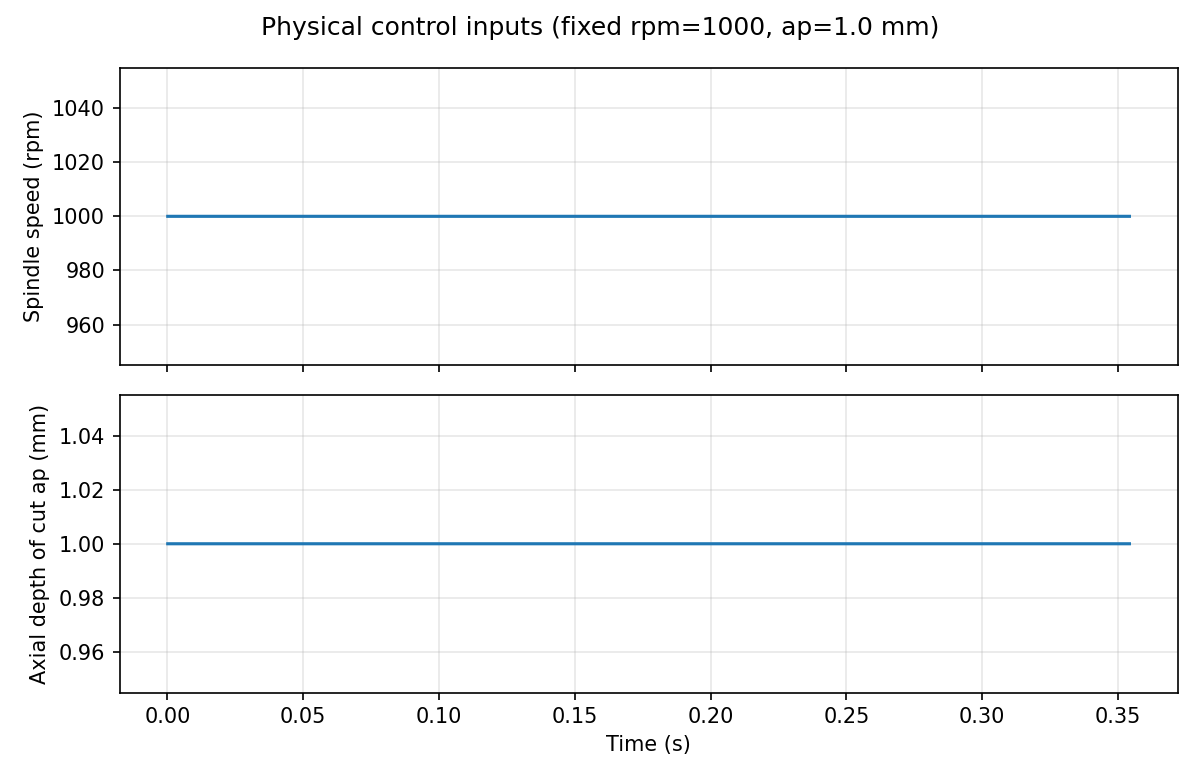
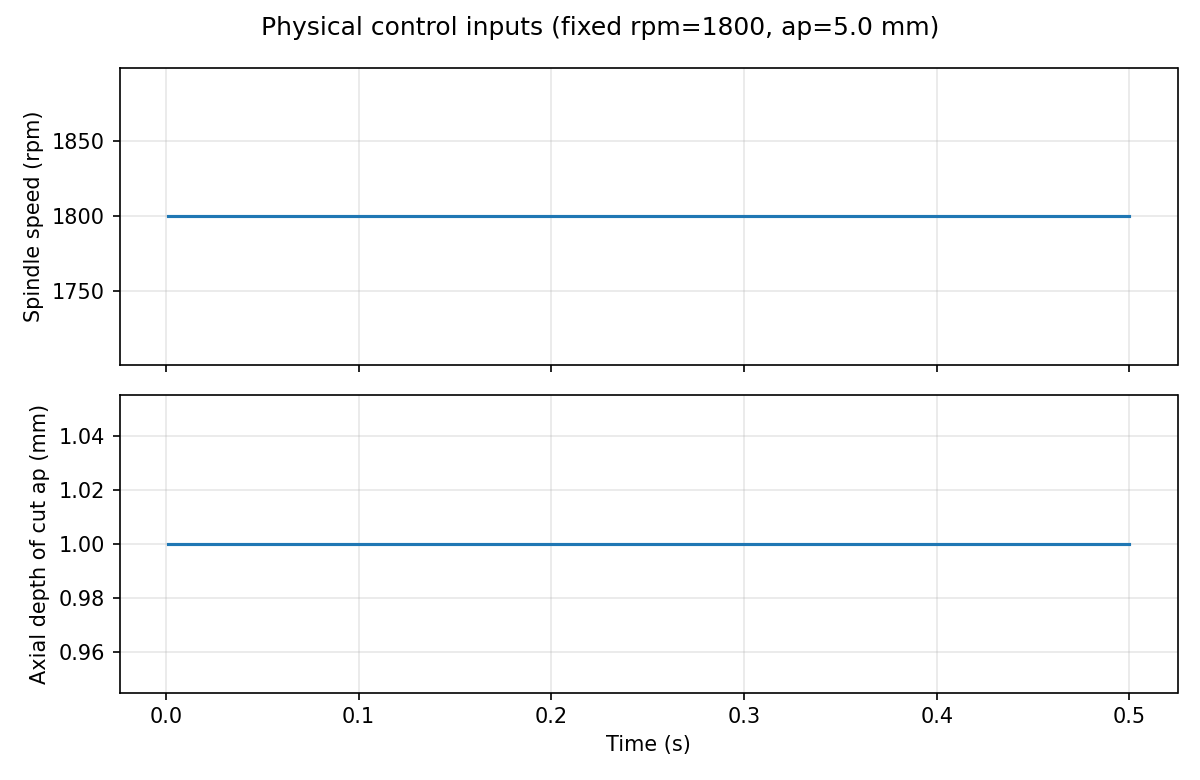
Update ODEControlEnv and PlatePlant parameters for improved dynamics and kinematics
- Reduced time step (dt) in ODEControlEnv from 0.02 to 0.002 for enhanced simulation accuracy.
- Set default history module in rk4.py to "f_nonlinear2_face_milling" for better integration with face-milling dynamics.
- Updated face-milling model in f_nonlinear2_face_milling.py to include variable spindle speed handling and improved regenerative delay calculations.
- Adjusted PlatePlant parameters, including minimum RPM and axial depth of cut, to optimize milling performance and stability.
- Modified random policy check script to reflect new default step count and time step settings.

diff --git a/custom_rl/plants/f_nonlinear2_face_milling.py b/custom_rl/plants/f_nonlinear2_face_milling.py
@@ -27,7 +27,12 @@ Implemented face-milling model
 For tooth i:
 
     theta_i = theta_base(t) + theta0 + (i-1)*2*pi/N
-    tau     = 2*pi/(N*omega)
+    For constant spindle speed:
+        tau = 2*pi/(N*omega)
+
+    For variable spindle speed:
+        find t_d from theta_base(t) - theta_base(t_d) = 2*pi/N
+        tau_eff = t - t_d
 
     h_i = ft*sin(theta_i)
         + Delta_xr*sin(theta_i)*cos(gamma_L)
@@ -36,7 +41,7 @@ For tooth i:
 
 where
 
-    Delta_r = r_rel(t) - r_rel(t - tau)
+    Delta_r = r_rel(t) - r_rel(t_d)
     r_rel   = r_cutter_dynamic - r_workpiece_dynamic
 
 For each engaged tooth:
@@ -68,6 +73,8 @@ The old code precomputed a scalar F_normal = sqrt(Fx^2 + Fy^2) from a
 peripheral-milling polynomial model. That is removed here. Face milling is
 computed tooth-by-tooth, gives [Fx, Fy, Fz], and uses the regenerative delay
 inside chip thickness, not as an artificial delay in the structural terms.
+When spindle speed changes, the delayed state is selected by one-tooth phase
+separation rather than by the instantaneous period alone.
 """
 
 from __future__ import annotations
@@ -219,7 +226,12 @@ def _get_state_at_time(t_query: float) -> Optional[np.ndarray]:
             return _state_history[0][1].copy()
         return None
     if idx == len(times):
-        return _state_history[-1][1].copy()
+        # Do not extrapolate a future delayed state from the last accepted state.
+        # If this happens, the RK substep is too large for the current tooth delay
+        # or a proper within-step DDE interpolant is required.
+        if t_query <= times[-1] + 1e-14:
+            return _state_history[-1][1].copy()
+        return None
 
     t1, x1 = _state_history[idx - 1]
     t2, x2 = _state_history[idx]
@@ -348,6 +360,92 @@ def spindle_phase(t: float, omega_rad_s: float) -> float:
     """Return accumulated spindle phase [rad] at time t."""
     _, phase = feed_phase_at_time(t, omega_rad_s)
     return float(phase)
+
+
+def tooth_pitch_phase() -> float:
+    """Return one-tooth pitch angle [rad]."""
+    return 2.0 * np.pi / float(N)
+
+
+def _get_time_at_phase(phase_query: float) -> Optional[float]:
+    """Return the time at which the accepted spindle phase reached phase_query.
+
+    The kinematic history stores unwrapped spindle phase, so the inverse mapping
+    phase -> time is well defined while the spindle speed is positive.
+    """
+    if len(_kinematic_history) == 0:
+        return None
+
+    phase_query = float(phase_query)
+    phases = [entry[2] for entry in _kinematic_history]
+    idx = bisect.bisect_left(phases, phase_query)
+
+    if idx == 0:
+        if abs(phases[0] - phase_query) < _KINEMATIC_TOL:
+            return float(_kinematic_history[0][0])
+        return None
+
+    if idx == len(phases):
+        if phase_query <= phases[-1] + _KINEMATIC_TOL:
+            return float(_kinematic_history[-1][0])
+        return None
+
+    t1, _, phase1 = _kinematic_history[idx - 1]
+    t2, _, phase2 = _kinematic_history[idx]
+    if abs(phase2 - phase1) < _KINEMATIC_TOL:
+        return float(t1)
+
+    a = (phase_query - phase1) / (phase2 - phase1)
+    return float((1.0 - a) * t1 + a * t2)
+
+
+def regenerative_delay_time(t: float, omega_rad_s: float) -> Tuple[Optional[float], float]:
+    """Return (t_delay, tau_eff) for one-tooth regenerative delay.
+
+    For constant spindle speed, this reduces to t_delay = t - 2*pi/(N*omega).
+    For variable spindle speed, the delayed time is defined by one tooth pitch
+    of unwrapped spindle phase:
+
+        phase(t) - phase(t_delay) = 2*pi/N
+
+    If less than one tooth of accepted history exists, t_delay is None and the
+    caller should use zero regenerative displacement.
+    """
+    t = float(t)
+    omega_rad_s = max(float(omega_rad_s), OMEGA_EPS)
+    tau_const = tooth_period(omega_rad_s)
+
+    if not USE_ACCEPTED_PATH_KINEMATICS:
+        return max(t - tau_const, 0.0), tau_const
+
+    phase_now = spindle_phase(t, omega_rad_s)
+    target_phase = phase_now - tooth_pitch_phase()
+
+    if target_phase < -_KINEMATIC_TOL:
+        return None, tau_const
+    target_phase = max(target_phase, 0.0)
+
+    # If the whole delay lies inside the current held-action segment, compute it
+    # directly. The state history may not support this case unless the RK substep
+    # is smaller than the tooth delay; f_nonlinear2 checks that before use.
+    if t >= _kinematic_t0 - _KINEMATIC_TOL and target_phase >= _kinematic_phase0_rad - _KINEMATIC_TOL:
+        t_delay = _kinematic_t0 + max(target_phase - _kinematic_phase0_rad, 0.0) / omega_rad_s
+        t_delay = min(max(t_delay, 0.0), t)
+        return float(t_delay), float(t - t_delay)
+
+    t_delay = _get_time_at_phase(target_phase)
+    if t_delay is None:
+        return None, tau_const
+
+    t_delay = min(max(float(t_delay), 0.0), t)
+    return t_delay, float(t - t_delay)
+
+
+def _latest_state_history_time() -> Optional[float]:
+    """Return the latest accepted modal-history time, if available."""
+    if len(_state_history) == 0:
+        return None
+    return float(_state_history[-1][0])
 
 # ============================================================
 # Debug information from the last force calculation
@@ -660,8 +758,18 @@ def process_damping_matrix(theta_values: np.ndarray, engagement: np.ndarray,
     return B
 
 
-def compute_face_milling_force(t: float, x_modal: np.ndarray, x_delay_modal: np.ndarray,
-                               omega_rad_s: float, ap_mm: float, ae_mm: float):
+def compute_face_milling_force(
+    t: float,
+    x_modal: np.ndarray,
+    x_delay_modal: np.ndarray,
+    omega_rad_s: float,
+    ap_mm: float,
+    ae_mm: float,
+    *,
+    t_delay_s: Optional[float] = None,
+    tau_s: Optional[float] = None,
+    delay_available: bool = True,
+):
     """
     Compute global face-milling force and diagnostic quantities.
 
@@ -676,13 +784,16 @@ def compute_face_milling_force(t: float, x_modal: np.ndarray, x_delay_modal: np.
     ae_mm = max(float(ae_mm), 0.0)
     ft_mm = float(cf)
 
-    tau = tooth_period(omega_rad_s)
+    tau = tooth_period(omega_rad_s) if tau_s is None else max(float(tau_s), 0.0)
     theta_s, theta_e = entry_exit_angles(ae_mm)
 
     xc, yc = cutter_point(t, omega_rad_s)
-    if USE_DELAYED_CUTTER_POSITION_FOR_REGEN:
-        xc_delay, yc_delay = cutter_point(max(t - tau, 0.0), omega_rad_s)
+    if delay_available and USE_DELAYED_CUTTER_POSITION_FOR_REGEN:
+        t_delay = max(t - tau, 0.0) if t_delay_s is None else max(float(t_delay_s), 0.0)
+        xc_delay, yc_delay = cutter_point(t_delay, omega_rad_s)
     else:
+        # Before one-tooth history exists, use zero regenerative displacement:
+        # compare current state with itself at the same cutter location.
         xc_delay, yc_delay = xc, yc
 
     rel_now = relative_displacement_mm(x_modal, xc, yc)
@@ -810,7 +921,8 @@ def f_nonlinear2(t, x, u):
     Modal plate dynamics forced by the face-milling cutting force.
 
     The structural equation is intentionally not delayed. Regeneration appears
-    only inside the chip-thickness term through x(t)-x(t-tau).
+    only inside the chip-thickness term through x(t)-x(t_delay), where t_delay
+    is selected by one-tooth phase separation when accepted kinematics are used.
     """
     _require_initialized()
 
@@ -821,9 +933,22 @@ def f_nonlinear2(t, x, u):
         raise ValueError(f"Expected state shape ({2*K},), got {x.shape}.")
     x = np.nan_to_num(x, nan=0.0, posinf=1e6, neginf=-1e6)
 
-    tau = tooth_period(omega_rad_s)
-    x_delay = _get_state_at_time(float(t) - tau)
-    if x_delay is None:
+    t_delay, tau = regenerative_delay_time(float(t), omega_rad_s)
+    delay_available = t_delay is not None
+    if delay_available:
+        latest_t = _latest_state_history_time()
+        if latest_t is not None and t_delay > latest_t + 1e-12:
+            raise RuntimeError(
+                "Regenerative delay time falls inside the current RK substep. "
+                "Reduce env dt or increase n_substeps so each RK substep is "
+                "smaller than the minimum tooth-passing delay, or use a DDE "
+                "integrator with within-step interpolation."
+            )
+        x_delay = _get_state_at_time(t_delay)
+        if x_delay is None:
+            delay_available = False
+            x_delay = x.copy()
+    else:
         # Before one-tooth history exists, use current state. This gives zero
         # regenerative displacement and keeps the static chip-load force active.
         x_delay = x.copy()
@@ -836,6 +961,9 @@ def f_nonlinear2(t, x, u):
         omega_rad_s=omega_rad_s,
         ap_mm=ap_mm,
         ae_mm=ae_mm,
+        t_delay_s=t_delay,
+        tau_s=tau,
+        delay_available=delay_available,
     )
     last_force_info = info
 

diff --git a/custom_rl/plants/plate.py b/custom_rl/plants/plate.py
@@ -48,7 +48,7 @@ from custom_rl.plants.compute_nonlinear_stiffness_updated import (
 # ---------------------------------------------------------------------------
 DEFAULT_SENSOR_POINTS: tuple[tuple[float, float], ...] = (
     (0.83, 0.20),
-    (0.17, 0.20),
+    (0.83, 0.83),
 )
 
 # The face-milling force module currently supports a straight x-pass with
@@ -56,7 +56,7 @@ DEFAULT_SENSOR_POINTS: tuple[tuple[float, float], ...] = (
 DEFAULT_Y_CUTTER = 0.20
 
 # Spindle speed operating range [rpm]; internal physics uses rad/s.
-RPM_MIN = 50.0
+RPM_MIN = 400.0
 RPM_MAX = 4000.0
 
 # Practical reference speed for episode cap estimation.  This does not change
@@ -185,13 +185,13 @@ class PlatePlant(ODEPlant):
         omega_min: float = OMEGA_MIN_RAD_S,
         omega_max: float = OMEGA_MAX_RAD_S,
         ap_min: float = 0.0,
-        ap_max: float = 20
+        ap_max: float = 1,
         ae_min: float = 1.0,
         ae_max: float = 50.0,
-        ae_default: float = 25.0,
+        ae_default: float = 28.0,
         control_ae: bool = False,
-        D_mm: float = 50.0,
-        feed_per_tooth_mm: float = 0.05,
+        D_mm: float = 63.0,
+        feed_per_tooth_mm: float = 0.20,
         gamma_L_deg: float = 45.0,
         gamma_r_deg: float = 5.0,
         gamma_a_deg: float = 5.0,
@@ -215,25 +215,26 @@ class PlatePlant(ODEPlant):
         use_process_damping: bool = False,
         Ksp: float | None = None,
         mu: float = 0.3,
-        VB: float = 0.08,
-        lambda_L_deg: float | None = 45.0,
+        VB: float = 0.0,
+        lambda_L_deg: float | None = None,
         force_projection_mode: str = "z",
         sensor_points: Sequence[tuple[float, float]] = DEFAULT_SENSOR_POINTS,
-        w_limit: float = 0.01,
-        w_obs_scale: float = 0.01,
+        w_limit: float = 1.0e-2,
+        w_obs_scale: float = 1.0e-2,
         wdot_limit: float = 10.0,
         wdot_obs_scale: float = 1.0,
-        eta_limit: float = 0.01,
+        eta_limit: float = 1.0e-3,
         y_cutter: float = DEFAULT_Y_CUTTER,
         x0_cutter: float = 0.0,
-        x_pass_end_tol: float = 0.01,
+        x_pass_end_tol: float | None = None,
         dynamics_uncertainty_std: float = 0.0,
         y0_min: float = 0.05,
-        y0_max: float = 0.45,
+        y0_max: float = 0.95,
         randomize_y0: bool = True,
         initial_eta_std: float = 0.0,
         initial_etad_std: float = 0.0,
         stiffness_grid_points: int = 100,
+        modal_damping_ratio: float = 0.02,
     ):
         # ------------------------------------------------------------------
         # Basic structural parameters
@@ -332,7 +333,12 @@ class PlatePlant(ODEPlant):
 
         self.y_cutter = float(y_cutter)
         self.x0_cutter = float(x0_cutter)
-        self.x_pass_end_tol = float(x_pass_end_tol)
+        # The milling pass ends after 90% travel: x = 0.1*L1.  Older code
+        # used the name x_pass_end_tol; keep it as a backward-compatible
+        # absolute end-position override, but default to the theory value.
+        self.x_pass_end_m = 0.1 * self.L1 if x_pass_end_tol is None else float(x_pass_end_tol)
+        self.x_pass_end_m = float(np.clip(self.x_pass_end_m, 0.0, self.L1))
+        self.x_pass_end_tol = self.x_pass_end_m
         self._last_omega = float(self.omega_min)
         self._last_ap = float(self.ap_min)
         self._last_ac = self._last_ap  # compatibility alias for old diagnostics
@@ -348,11 +354,21 @@ class PlatePlant(ODEPlant):
         self._kinematic_step_phase0_rad = 0.0
 
         self.dynamics_uncertainty_std = float(max(dynamics_uncertainty_std, 0.0))
-        self.y0_min = float(y0_min)
-        self.y0_max = float(y0_max)
+        self.y0_min = float(np.clip(y0_min, 0.0, self.L2))
+        self.y0_max = float(np.clip(y0_max, 0.0, self.L2))
+        if self.y0_max <= self.y0_min:
+            raise ValueError(
+                f"y0_max must be larger than y0_min after clipping to [0, L2]; "
+                f"got y0_min={self.y0_min}, y0_max={self.y0_max}."
+            )
         self.randomize_y0 = bool(randomize_y0)
         self.initial_eta_std = float(max(initial_eta_std, 0.0))
         self.initial_etad_std = float(max(initial_etad_std, 0.0))
+        self.modal_damping_ratio = float(modal_damping_ratio)
+        if not np.isfinite(self.modal_damping_ratio) or self.modal_damping_ratio < 0.0:
+            raise ValueError(
+                f"modal_damping_ratio must be finite and non-negative, got {modal_damping_ratio!r}."
+            )
         self._rng: np.random.Generator | None = None
 
         # Explicit regenerative-history module handle.  ODEControlEnv can use
@@ -462,7 +478,7 @@ class PlatePlant(ODEPlant):
         # force projection Fk = Q_k / M_k. For the current analytical mode
         # shapes, self.M_modal = ∫∫ rho_areal*W_k^2 dA ≈ L1*L2*rho_areal.
         lambda_vec = lambda_structural_vec / max(float(self.M_modal), 1e-18)
-        zeta_vec = 0.05 * np.ones(self.K, dtype=np.float64)
+        zeta_vec = self.modal_damping_ratio * np.ones(self.K, dtype=np.float64)
 
         self.omega_vec = omega_vec
         self.lambda_structural_vec = lambda_structural_vec
@@ -758,7 +774,7 @@ class PlatePlant(ODEPlant):
         info = {
             "y_cutter": float(self.y_cutter),
             "x_start": float(self.L1 - self.x0_cutter),
-            "x_end": 0.1 * self.L1,  # FIX: Updated to match the new 90% termination rule
+            "x_end": float(self.x_pass_end_m),
             "path_direction": "x=L1 free side -> x=0.1*L1 (90% pass)",
             "feed_distance_m": float(self._feed_distance_m),
             "spindle_phase_rad": float(self._spindle_phase_rad),
@@ -806,9 +822,9 @@ class PlatePlant(ODEPlant):
             info["mean_chip_mm"] = float(np.mean(force_info.chip_eff_mm))
             info["max_chip_mm"] = float(np.max(force_info.chip_eff_mm))
 
-        # 4. Terminate at 90% of the pass (x = 0.1 * L1)
+        # 4. Terminate at the configured 90% pass end (default x = 0.1 * L1).
         # This avoids fixture interference and steep mode-shape gradients at x=0.
-        x_termination_threshold = 0.1 * self.L1
+        x_termination_threshold = self.x_pass_end_m
         if cutter_x <= x_termination_threshold:
             info["pass_completed"] = True
             info["termination_reason"] = "pass_completed_90percent"

diff --git a/scripts/check_plate_random_policy.py b/scripts/check_plate_random_policy.py
@@ -348,9 +348,9 @@ def plot_rollout(
 def main() -> None:
     parser = argparse.ArgumentParser(description="Simple face-milling plate env smoke test.")
     parser.add_argument("--reward", default="dense", choices=["dense", "sparse", "quadratic"])
-    parser.add_argument("--steps", type=int, default=5000)
+    parser.add_argument("--steps", type=int, default=500)
     parser.add_argument("--seed", type=int, default=42)
-    parser.add_argument("--dt", type=float, default=0.0001)
+    parser.add_argument("--dt", type=float, default=0.001)
     parser.add_argument(
         "--max-episode-steps",
         type=int,

diff --git a/custom_rl/envs/ode_control_env.py b/custom_rl/envs/ode_control_env.py
@@ -46,7 +46,7 @@ class ODEControlEnv(gym.Env):
                 float,
             ]
         ] = None,
-        dt: float = 0.02,
+        dt: float = 0.002,
         n_substeps: int = 1,
         max_episode_steps: int = 500,
         process_noise_std: float = 0.0,

diff --git a/custom_rl/integration/rk4.py b/custom_rl/integration/rk4.py
@@ -175,7 +175,7 @@ def rk4_step(
     u: Array,
     dt: float,
     *,
-    history_module: Optional[Any] = None,
+    history_module: Optional[Any] = "f_nonlinear2_face_milling",
     commit_history: bool = True,
 ) -> Array:
     """
